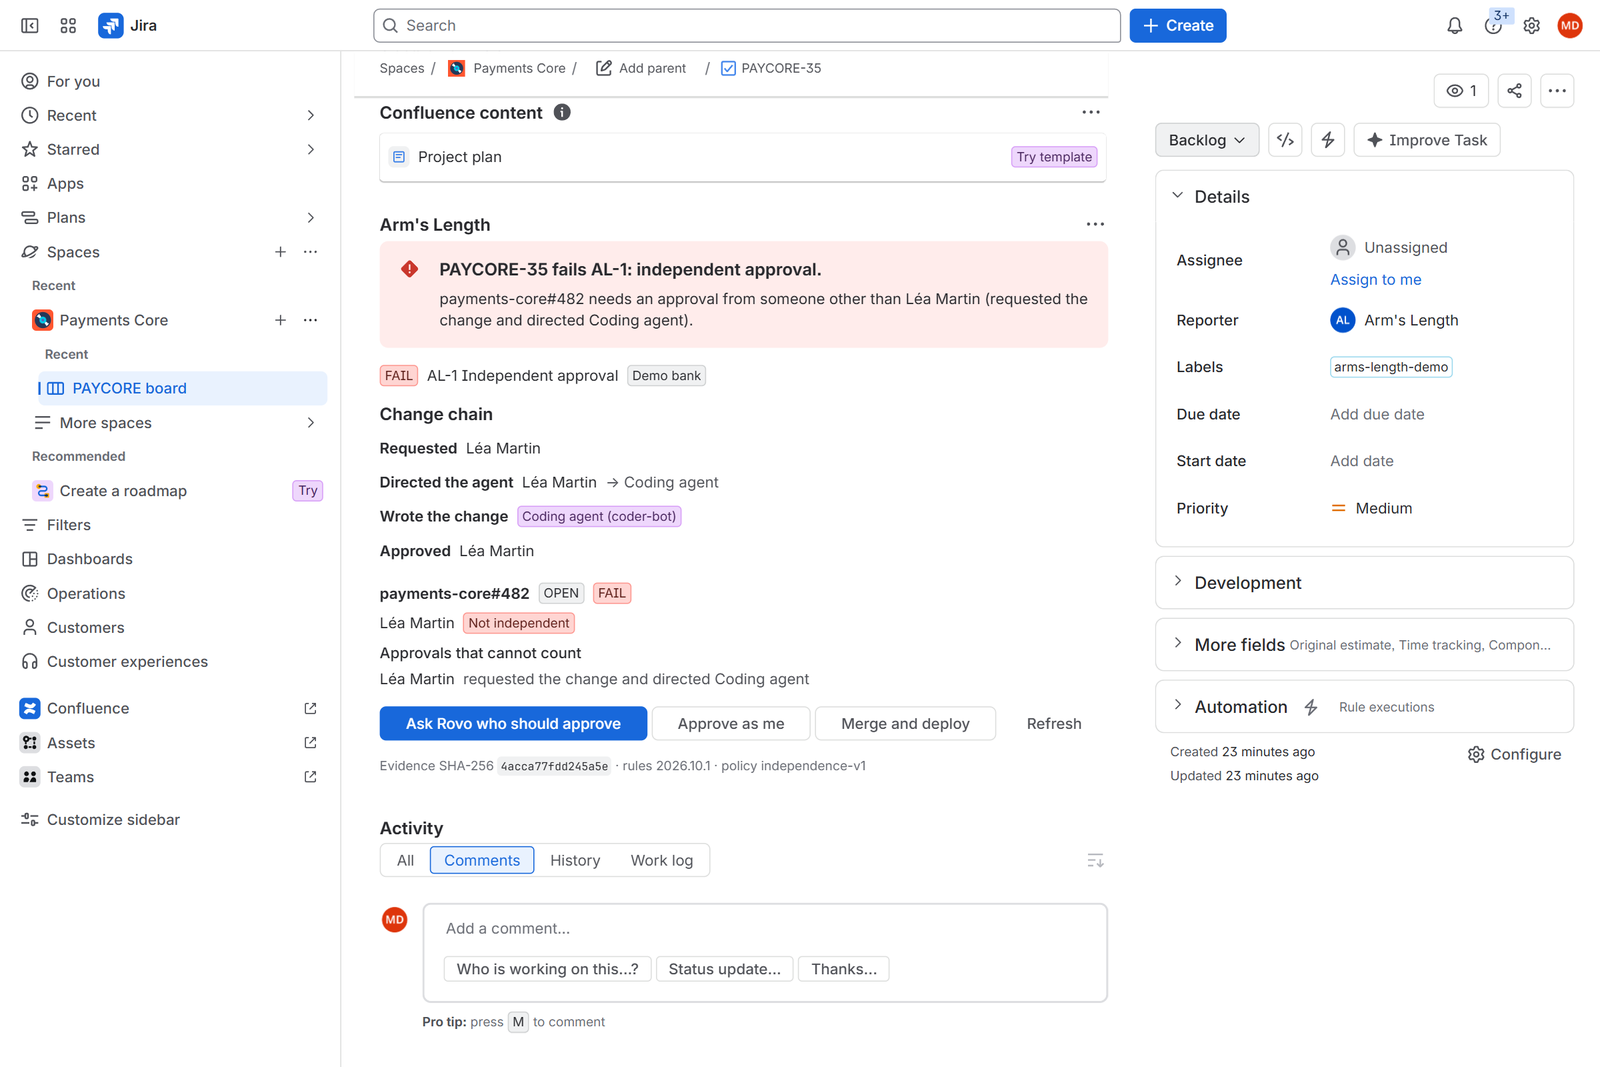
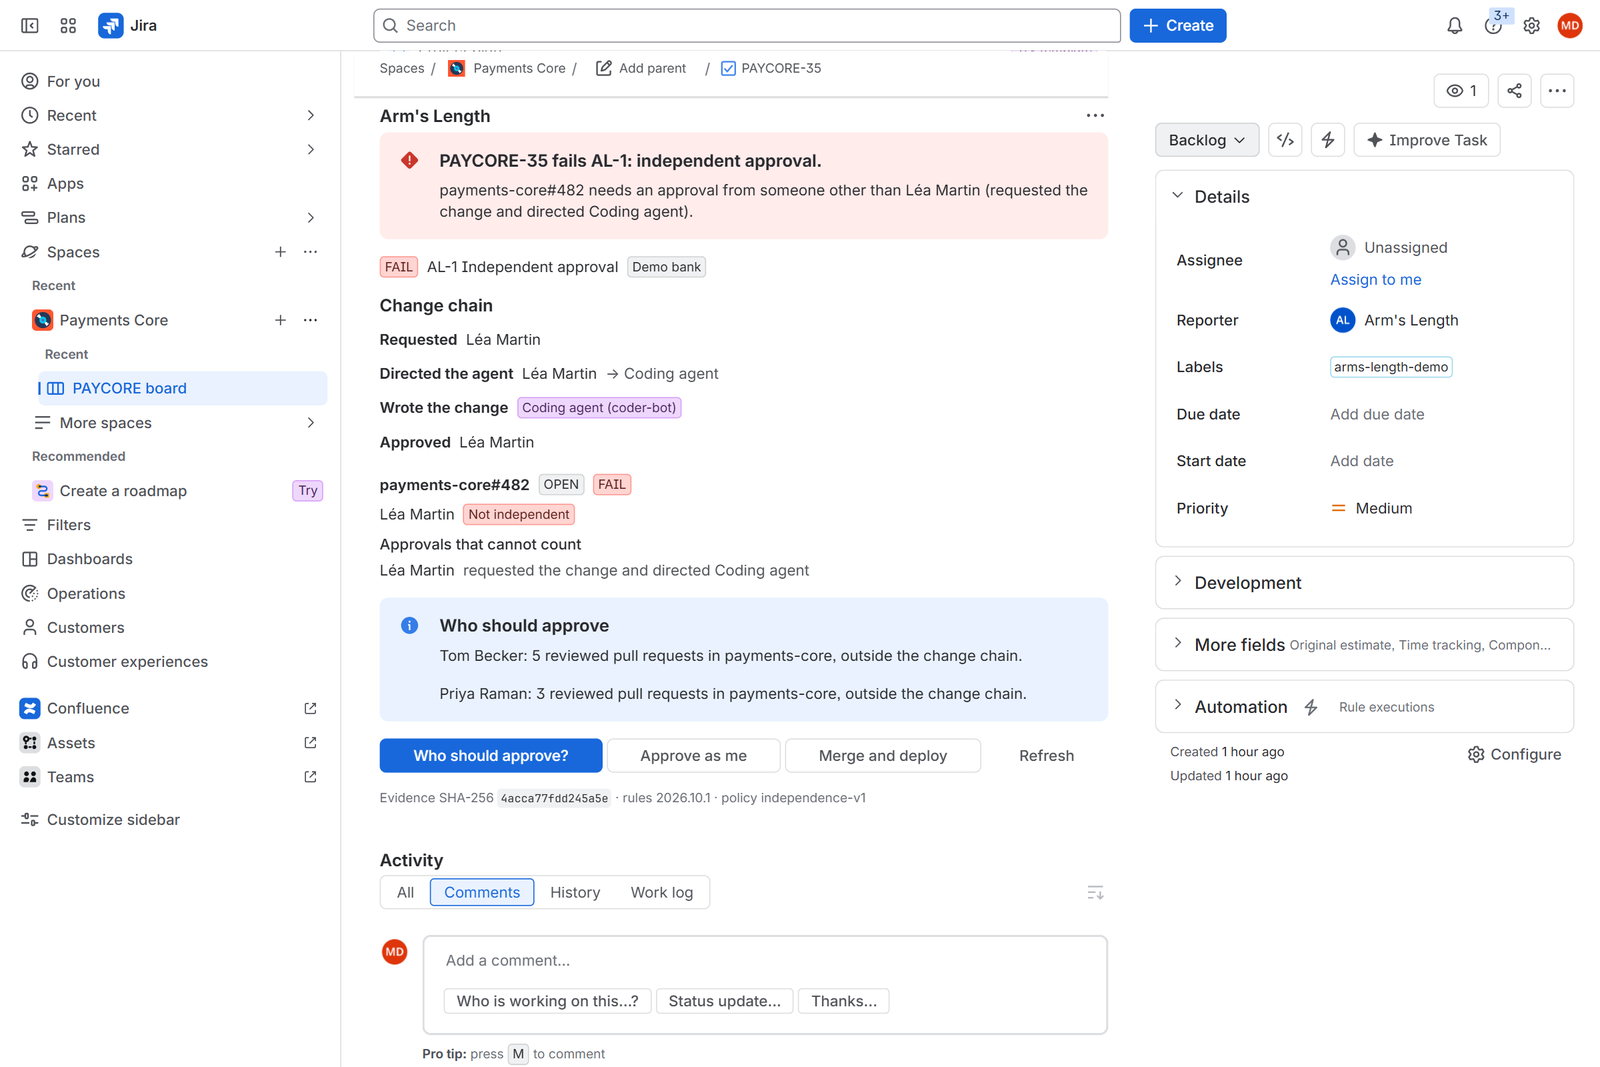
Reviewer answer in README

Changed region(s): [[0.2188, 0.2474, 0.6875, 1.0], [0.2188, 0.0928, 0.6875, 0.2165], [0.75, 0.6804, 0.8125, 0.7423]]

diff --git a/README.md b/README.md
@@ -40,8 +40,9 @@ The judge path needs one Jira site and no Bitbucket account.
 4. Open the scene the settings page links to, "Check the IBAN country code against the beneficiary bank", and
    open **Arm's Length** from the work item's apps button. Its only approval comes from Léa Martin, who
    requested the change and assigned it to the Coding agent. The panel shows FAIL and names who cannot approve.
-5. Click **Merge and deploy**: the release pipeline check stops it. Click **Ask Rovo who should approve**: the
-   agent names Tom Becker, who reviewed 5 pull requests in `payments-core` in 90 days and is outside the chain.
+5. Click **Merge and deploy**: the release pipeline check stops it. Click **Who should approve?**: Tom Becker,
+   who reviewed 5 pull requests in `payments-core` in 90 days, is outside the chain. On a site with Rovo the button
+   reads **Ask Rovo who should approve** and opens the Arm's Length agent in Rovo chat.
 6. Click **Approve as me**. You are outside the chain, so the verdict turns PASS. **Merge and deploy** now ships it.
 7. Back on the population page, **Publish workpaper** writes the quarter's test to Confluence.
 8. To play the scene again, click **Reset the scene** in the settings.
@@ -203,6 +204,7 @@ wall-clock in the browser. Rows dated 29 October 2026 ran on the production envi
 | JQL `armsLengthVerdict = FAIL` (29 Oct) | 7 work items: the 6 failures of the quarter and the open scene |
 | **Merge and deploy** on the scene (29 Oct) | Stopped in 0.8 s: "needs an approval from someone other than Léa Martin" |
 | Transition to Ready for release, validator (29 Oct) | Refused in 2.4 s with the same reason |
+| **Who should approve?** on the scene (29 Oct) | Tom Becker (5 reviewed pull requests in `payments-core`), then Priya Raman (3), 0.9 s |
 | **Approve as me**, then **Merge and deploy** (29 Oct) | Verdict PASS, pull request merged, `prod-482` deployed, 1.3 s |
 | Raise exceptions as work items (29 Oct) | 7 work items, 8.5 s |
 | Publish workpaper (29 Oct) | Confluence page in the signed-in user's name, full width, 2.9 s |
@@ -233,6 +235,7 @@ modules are the code that runs on a Jira site.
 | The workpaper escapes markup | [`src/core/workpaper.ts`](src/core/workpaper.ts) | `tests/core.test.ts` "escapes markup in the workpaper" |
 | The Bitbucket app sends snapshots only to a Forge web trigger | [`src/core/signature.ts`](src/core/signature.ts) `isWebTriggerUrl`, [`bitbucket/manifest.yml`](bitbucket/manifest.yml) egress | `tests/core.test.ts` "pairing endpoint" |
 | The scene can be played again | [`src/forge/demo.ts`](src/forge/demo.ts) `resetDemoScene` | `tests/demo-flow.test.ts` "resets the scene after it shipped" |
+| Reviewer suggestions exclude everyone in the chain | [`src/core/reviewers.ts`](src/core/reviewers.ts), [`src/forge/services.ts`](src/forge/services.ts) `whoMustApprove` | `tests/demo-flow.test.ts` "loads 35 work items, then the judge approves and ships the scene" |
 
 ## Quickstart
 
